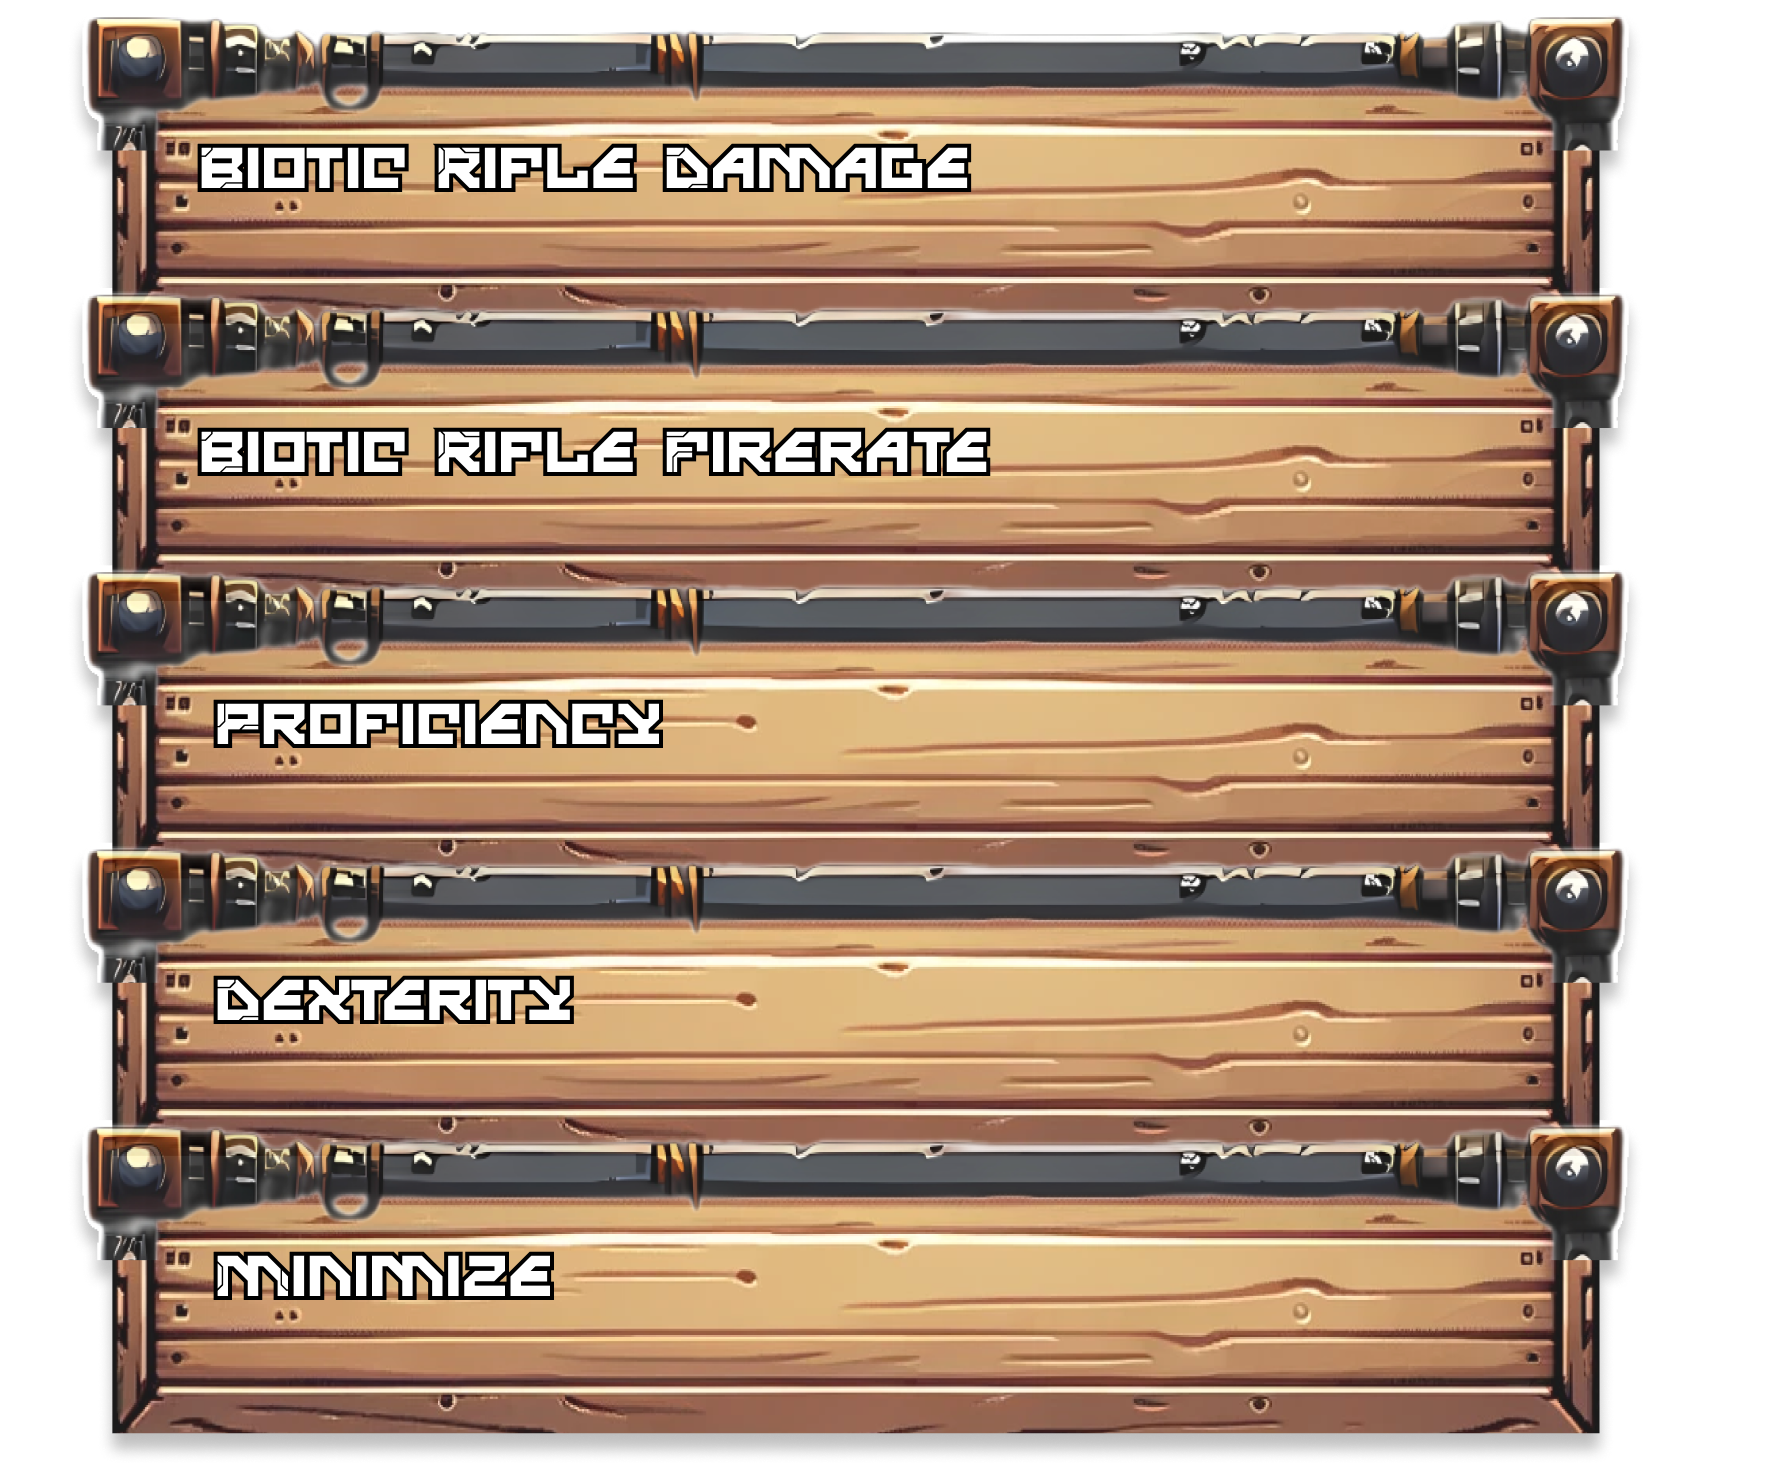
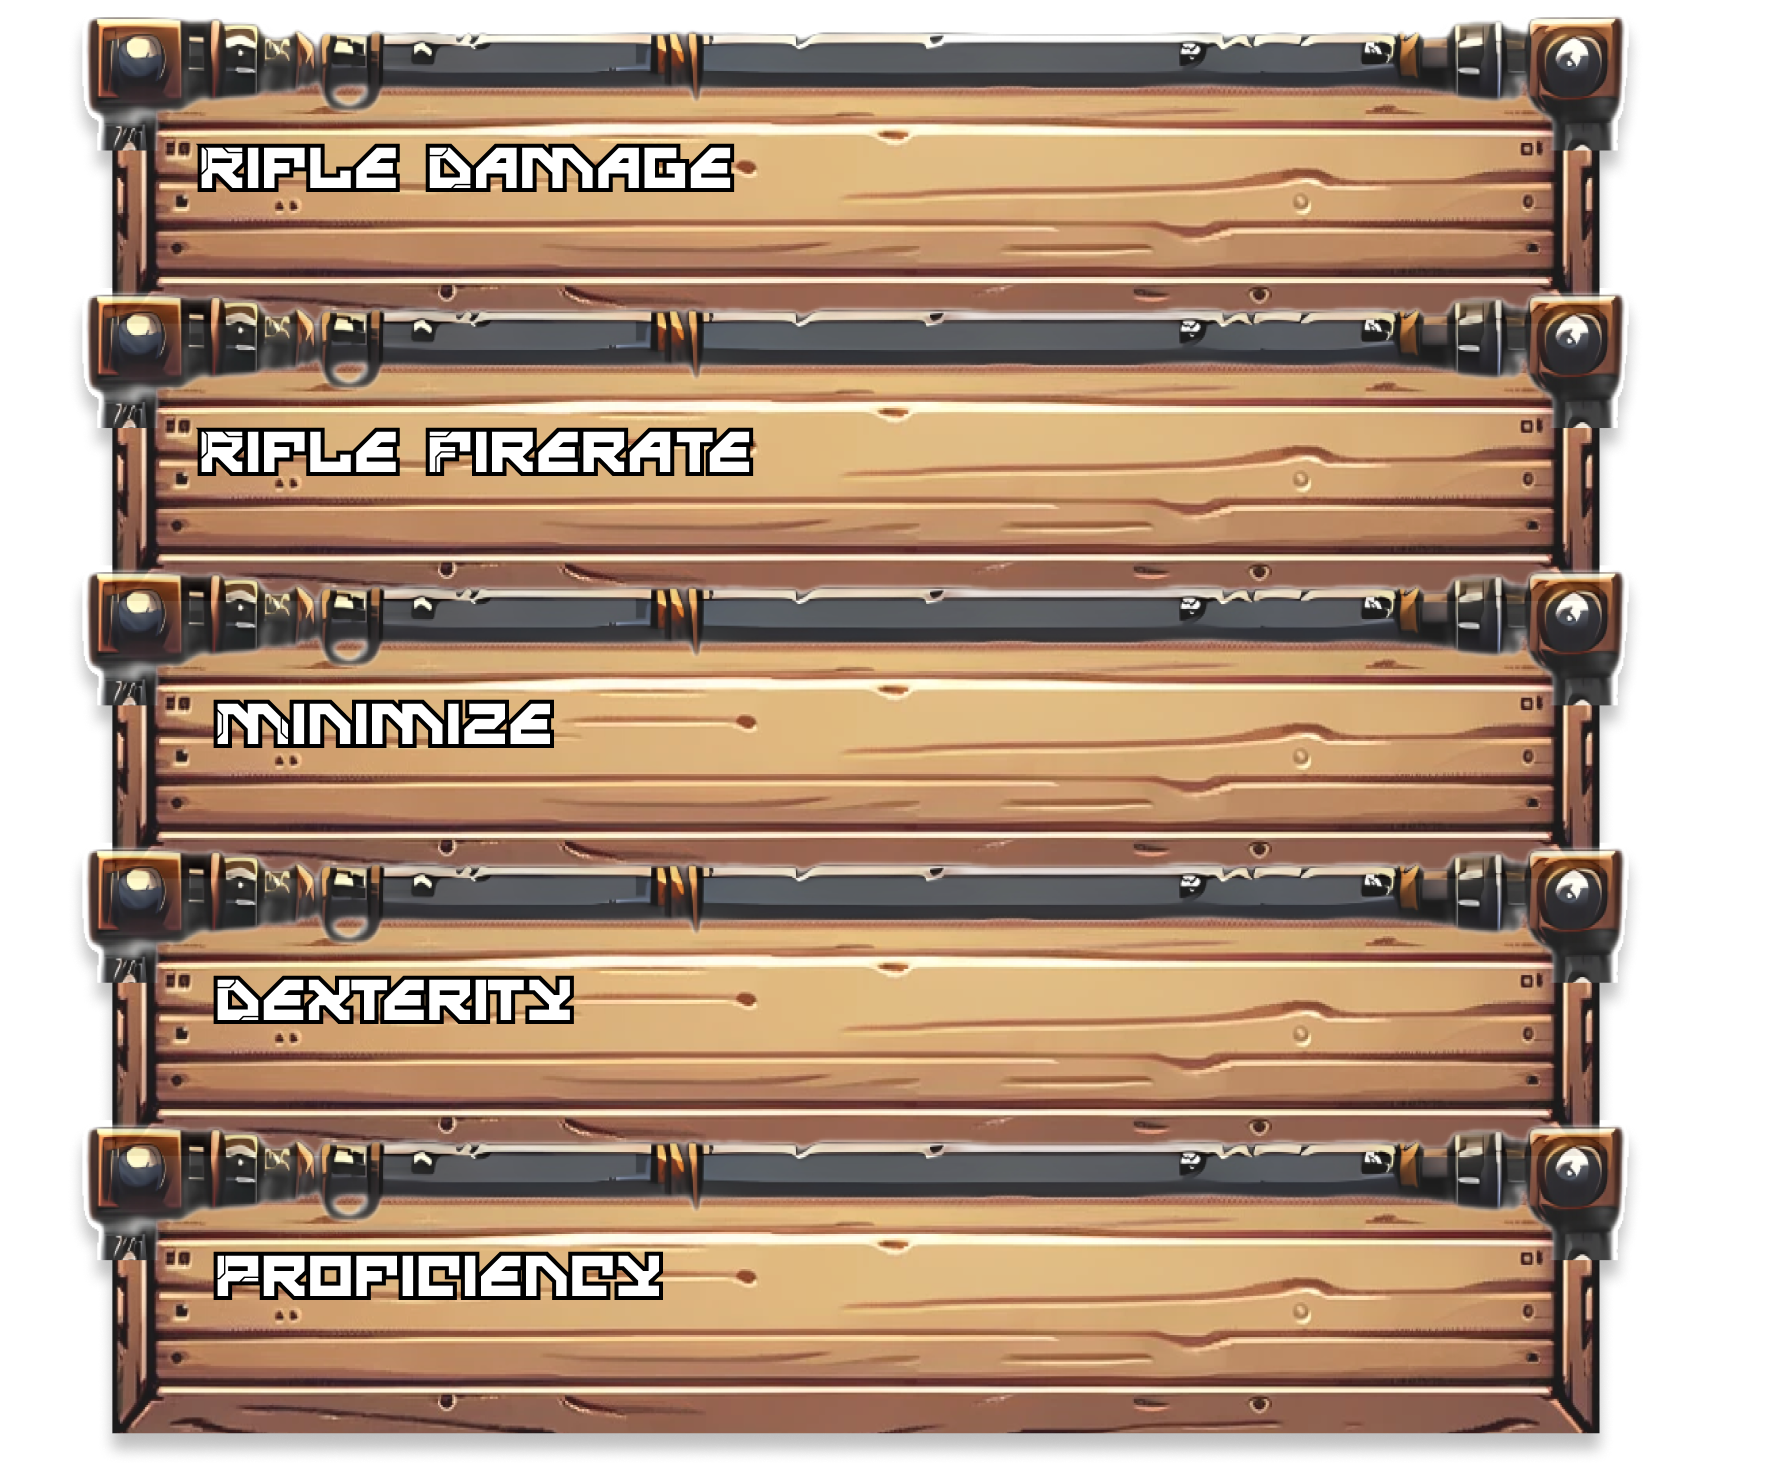
Switch minimize and proficiency in playerPage

diff --git a/src/Pane/Page/PlayerPage.java b/src/Pane/Page/PlayerPage.java
@@ -42,7 +42,7 @@ public class PlayerPage extends GraphicEditor {
         allPrice.add( (UISprite) create(new UISprite(new Text("100", Utility.getGameFont(13), Color.YELLOWGREEN),
                 new Transform(allButtons.get(0).getTransform().getPosX() + 28,
                         allButtons.get(0).getTransform().getPosY() + 23), 55)));
-        allLvL.add((UISprite) create(new UISprite(new Text("Lv.1", Utility.getGameFont(13), Color.WHITE) ,new Transform(Utility.getGameScreenX() + 260, 192, 0.25, 0.25), 55)));
+        allLvL.add((UISprite) create(new UISprite(new Text("Lv.1", Utility.getGameFont(13), Color.WHITE) ,new Transform(Utility.getGameScreenX() + 200, 192, 0.25, 0.25), 55)));
         allDescription.add((UISprite) create(new UISprite(new Text("Damage : 2.4", Utility.getGameFont(11), Color.WHITE) ,new Transform(Utility.getGameScreenX() + 58, 210, 0.25, 0.25), 55)));
         allIncrease.add((UISprite) create(new UISprite(new Text("+0.25 Damage", Utility.getGameFont(10), Color.WHITE) ,new Transform(Utility.getGameScreenX() + 310, 213, 0.25, 0.25), 55)));
 
@@ -51,18 +51,18 @@ public class PlayerPage extends GraphicEditor {
         allPrice.add( (UISprite) create(new UISprite(new Text("100", Utility.getGameFont(13), Color.YELLOWGREEN),
                 new Transform(allButtons.get(1).getTransform().getPosX() + 28,
                         allButtons.get(1).getTransform().getPosY() + 23), 55)));
-        allLvL.add((UISprite) create(new UISprite(new Text("Lv.1", Utility.getGameFont(13), Color.WHITE) ,new Transform(Utility.getGameScreenX() + 260, 192 + moveYButton, 0.25, 0.25), 55)));
+        allLvL.add((UISprite) create(new UISprite(new Text("Lv.1", Utility.getGameFont(13), Color.WHITE) ,new Transform(Utility.getGameScreenX() + 200, 192 + moveYButton, 0.25, 0.25), 55)));
         allDescription.add((UISprite) create(new UISprite(new Text("Firerate : 2", Utility.getGameFont(11), Color.WHITE) ,new Transform(Utility.getGameScreenX() + 58, 210 + moveYButton, 0.25, 0.25), 55)));
         allIncrease.add((UISprite) create(new UISprite(new Text("+0.25 Firerate", Utility.getGameFont(10), Color.WHITE) ,new Transform(Utility.getGameScreenX() + 310, 213 + moveYButton, 0.25, 0.25), 55)));
 
-        // Create Proficiency
+        // Create Minimize
         allButtons.add((UIButton) create( new UIButton(Asset.UI.upgradeButton, new Transform(Utility.getGameScreenX() + 320, 170 + moveYButton*2, 0.25, 0.27), 54 , ButtonType.UPGRADE)));
         allPrice.add((UISprite) create(new UISprite(new Text("100", Utility.getGameFont(13), Color.YELLOWGREEN),
                 new Transform(allButtons.get(2).getTransform().getPosX() + 28,
                         allButtons.get(2).getTransform().getPosY() + 23), 55)));
-        allLvL.add((UISprite) create(new UISprite(new Text("Lv.1", Utility.getGameFont(13), Color.WHITE) ,new Transform(Utility.getGameScreenX() + 180, 190 + moveYButton*2, 0.25, 0.25), 55)));
-        allDescription.add((UISprite) create(new UISprite(new Text("Parts per graze : 2", Utility.getGameFont(11), Color.WHITE) ,new Transform(Utility.getGameScreenX() + 58, 210 + moveYButton*2, 0.25, 0.25), 55)));
-        allIncrease.add((UISprite) create(new UISprite(new Text("+1 part", Utility.getGameFont(10), Color.WHITE) ,new Transform(Utility.getGameScreenX() + 280, 213 + moveYButton*2, 0.25, 0.25), 55)));
+        allLvL.add((UISprite) create(new UISprite(new Text("Lv.1", Utility.getGameFont(13), Color.WHITE) ,new Transform(Utility.getGameScreenX() + 160, 190 + moveYButton*2, 0.25, 0.25), 55)));
+        allDescription.add((UISprite) create(new UISprite(new Text("Hitbox size : 8", Utility.getGameFont(11), Color.WHITE) ,new Transform(Utility.getGameScreenX() + 58, 210 + moveYButton*2, 0.25, 0.25), 55)));
+        allIncrease.add((UISprite) create(new UISprite(new Text("+0.25 Minimize", Utility.getGameFont(10), Color.WHITE) ,new Transform(Utility.getGameScreenX() + 290, 210 + moveYButton*2, 0.25, 0.25), 55)));
 
         // Create Dexterity
         allButtons.add((UIButton) create( new UIButton(Asset.UI.upgradeButton, new Transform(Utility.getGameScreenX() + 320, 170 + moveYButton*3, 0.25, 0.27), 54 , ButtonType.UPGRADE)));
@@ -73,15 +73,14 @@ public class PlayerPage extends GraphicEditor {
         allDescription.add((UISprite) create(new UISprite(new Text("Dexterity : 2", Utility.getGameFont(11), Color.WHITE) ,new Transform(Utility.getGameScreenX() + 58, 210 + moveYButton*3, 0.25, 0.25), 55)));
         allIncrease.add((UISprite) create(new UISprite(new Text("+0.25 Dexterity", Utility.getGameFont(10), Color.WHITE) ,new Transform(Utility.getGameScreenX() + 290, 213 + moveYButton*3, 0.25, 0.25), 55)));
 
-
-        // Create Minimize
+        // Create Proficiency
         allButtons.add((UIButton) create( new UIButton(Asset.UI.upgradeButton, new Transform(Utility.getGameScreenX() + 320, 170 + moveYButton*4, 0.25, 0.27), 54 , ButtonType.UPGRADE)));
         allPrice.add((UISprite) create(new UISprite(new Text("100", Utility.getGameFont(13), Color.YELLOWGREEN),
                 new Transform(allButtons.get(4).getTransform().getPosX() + 28,
                         allButtons.get(4).getTransform().getPosY() + 23), 55)));
-        allLvL.add((UISprite) create(new UISprite(new Text("Lv.1", Utility.getGameFont(13), Color.WHITE) ,new Transform(Utility.getGameScreenX() + 160, 190 + moveYButton*4, 0.25, 0.25), 55)));
-        allDescription.add((UISprite) create(new UISprite(new Text("Minimize : 2", Utility.getGameFont(11), Color.WHITE) ,new Transform(Utility.getGameScreenX() + 58, 210 + moveYButton*4, 0.25, 0.25), 55)));
-        allIncrease.add((UISprite) create(new UISprite(new Text("+0.25 Minimize", Utility.getGameFont(10), Color.WHITE) ,new Transform(Utility.getGameScreenX() + 290, 210 + moveYButton*4, 0.25, 0.25), 55)));
+        allLvL.add((UISprite) create(new UISprite(new Text("Lv.1", Utility.getGameFont(13), Color.WHITE) ,new Transform(Utility.getGameScreenX() + 180, 190 + moveYButton*4, 0.25, 0.25), 55)));
+        allDescription.add((UISprite) create(new UISprite(new Text("Parts per graze : 2", Utility.getGameFont(11), Color.WHITE) ,new Transform(Utility.getGameScreenX() + 58, 210 + moveYButton*4, 0.25, 0.25), 55)));
+        allIncrease.add((UISprite) create(new UISprite(new Text("+1 part", Utility.getGameFont(10), Color.WHITE) ,new Transform(Utility.getGameScreenX() + 325, 213 + moveYButton*4, 0.25, 0.25), 55)));
 
 
         // Create the button
